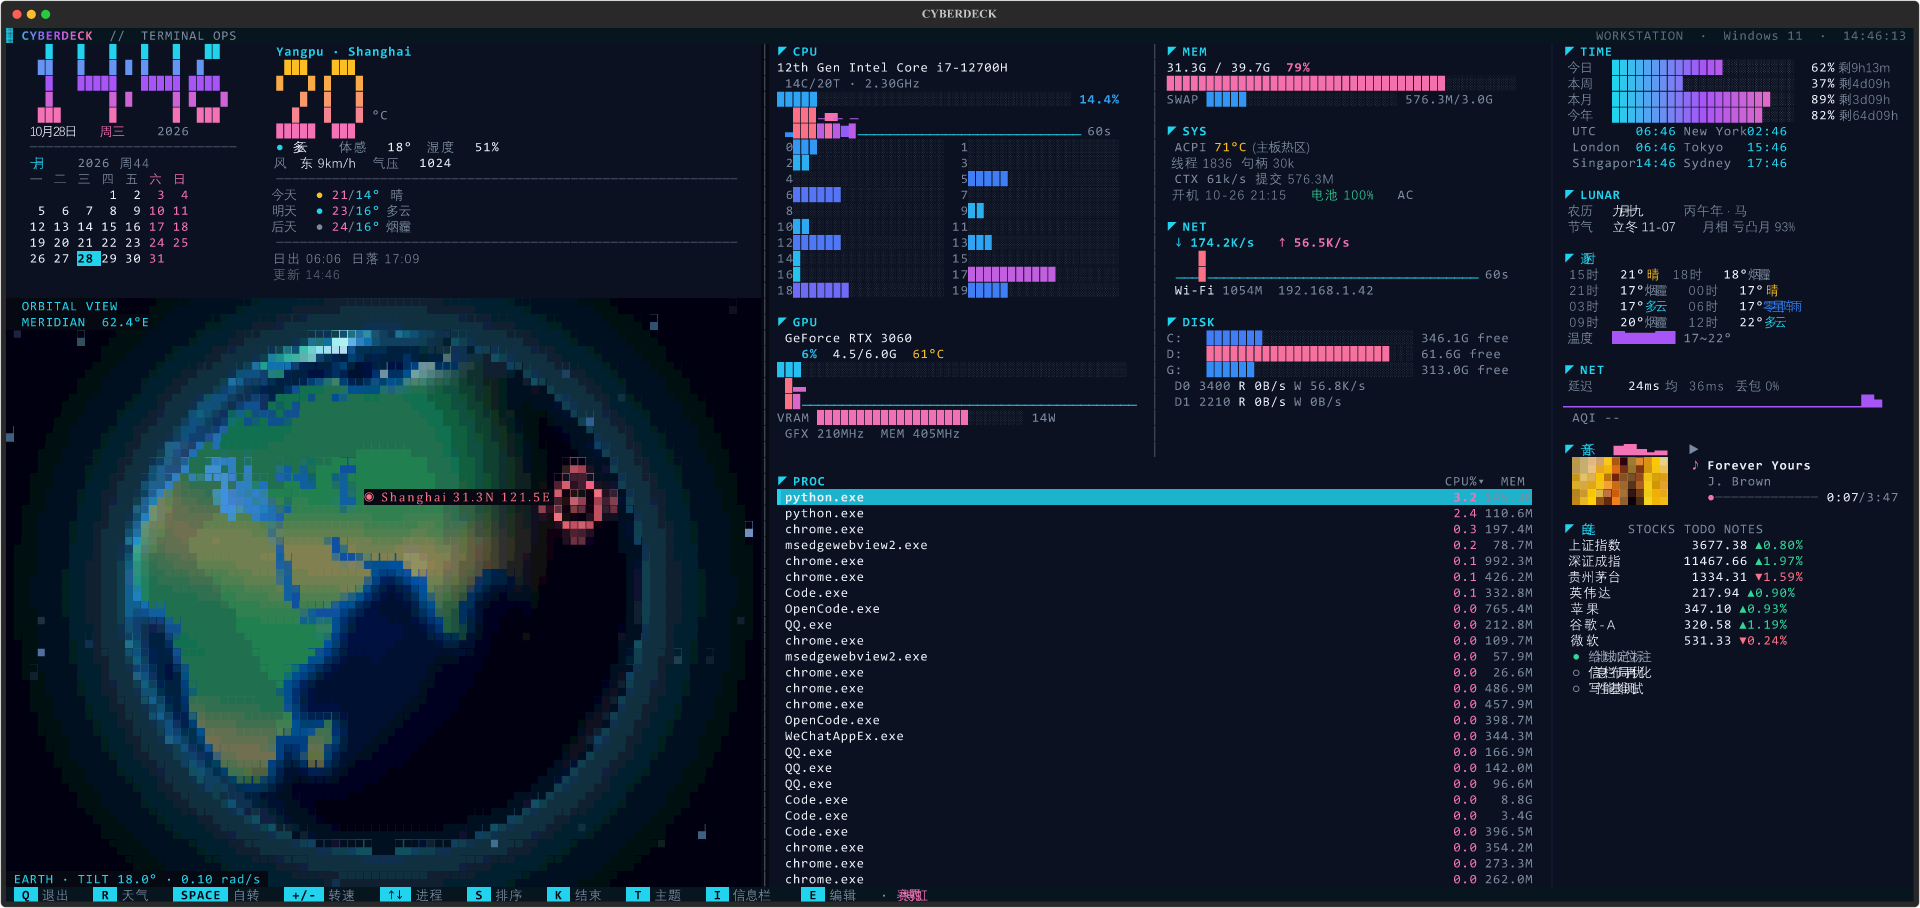
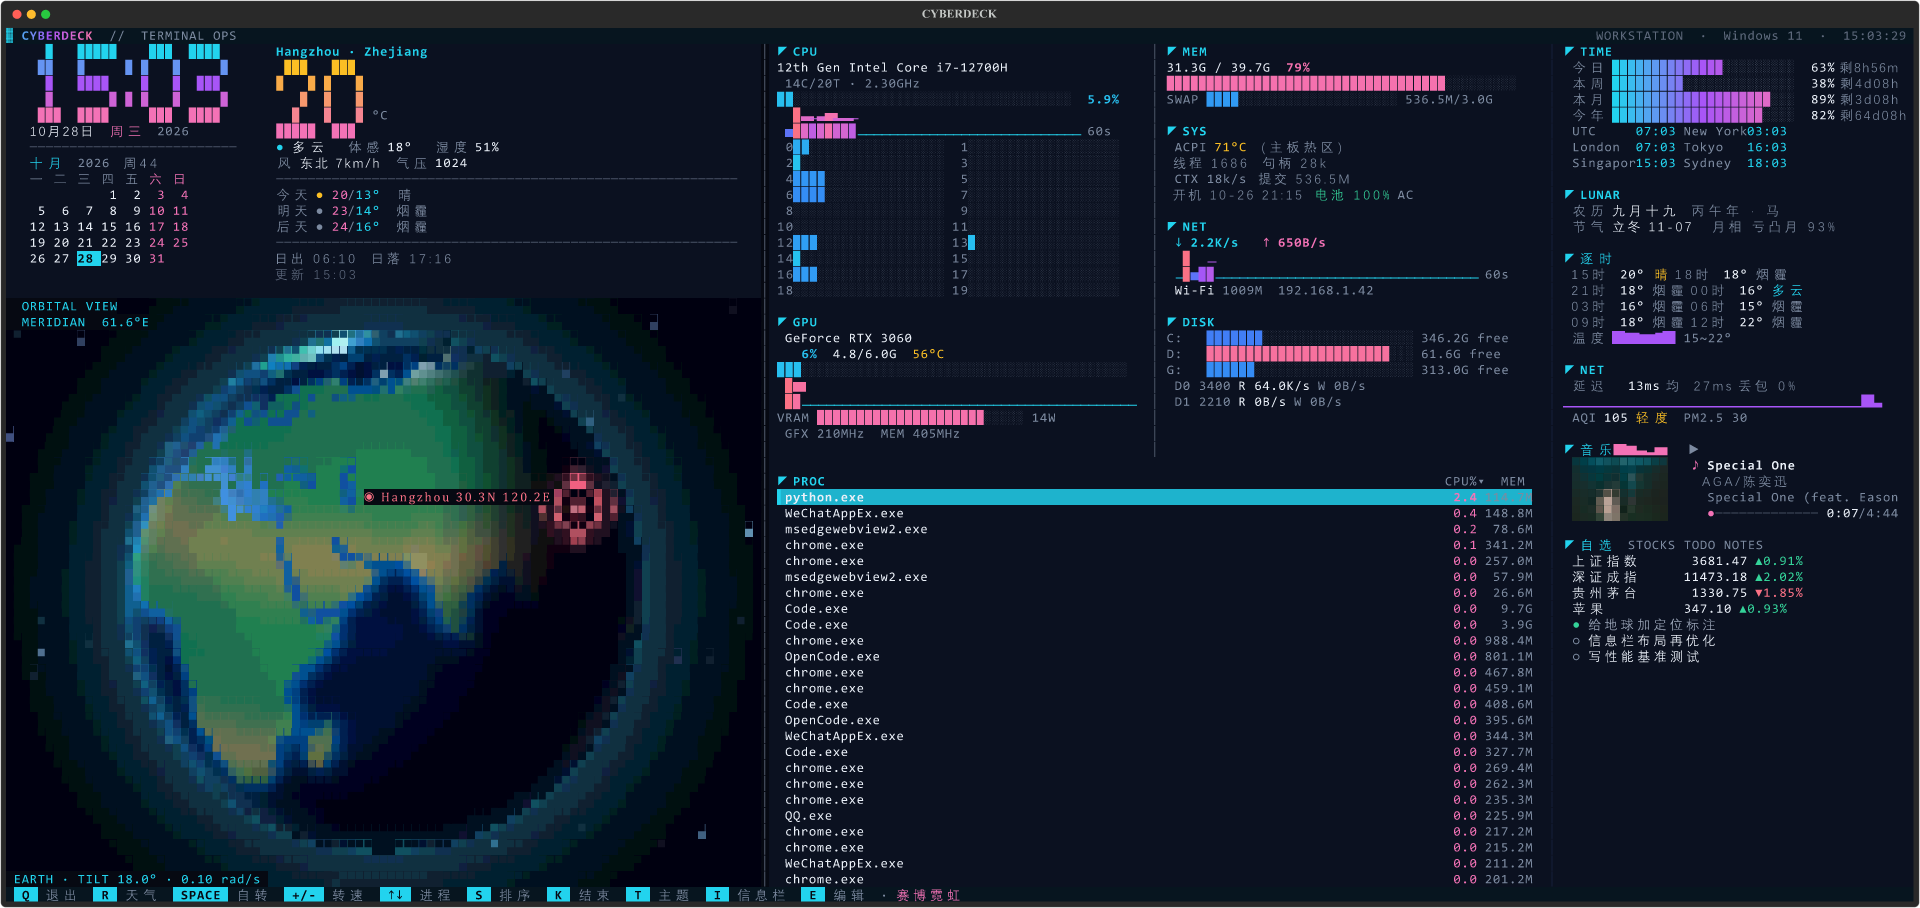
feat: manual location in the editor, and CJK-correct docs renders
Pressing e now also takes a pin: 'lat, lon, city'. Saving it writes
config.json's location, retargets the weather city and moves the globe marker
straight away; leaving it blank falls back to the timezone guess.

docs/editor.png and docs/preview.png are rendered through a new svgfix step
and a make_editor_preview tool: Textual's SVG export writes textLength as one
cell per character, so two-cell CJK glyphs were being squashed into one cell
and overlapping. Every run is now measured in real terminal cells.

diff --git a/src/cyberdeck/editor.py b/src/cyberdeck/editor.py
@@ -6,13 +6,13 @@ from textual.app import ComposeResult
 from textual.binding import Binding
 from textual.containers import Vertical
 from textual.screen import ModalScreen
-from textual.widgets import Input, Label, Static, TextArea
+from textual.widgets import Input, Static, TextArea
 
 from . import theme
 
 
 class EditorScreen(ModalScreen[dict | None]):
-    """Returns {"stocks": str, "todo": str} on save, None on cancel."""
+    """Returns {"stocks": str, "todo": str, "location": str} on save, None on cancel."""
 
     BINDINGS = [
         Binding("ctrl+s", "save", "保存"),
@@ -21,23 +21,27 @@ class EditorScreen(ModalScreen[dict | None]):
 
     DEFAULT_CSS = """
     EditorScreen { align: center middle; background: #000000 55%; }
-    #dlg { width: 72; height: 22; background: #0b1220; border: round #22d3ee; padding: 1 2; }
-    #dlg Label { color: #94a3b8; margin-top: 1; }
+    #dlg { width: 72; height: 26; background: #0b1220; border: round #22d3ee; padding: 1 2; }
+    #dlg .field { color: #94a3b8; margin-top: 1; }
     #stocks { border: round #243049; }
-    #todo { height: 9; border: round #243049; }
+    #location { border: round #243049; }
+    #todo { height: 8; border: round #243049; }
     #hint { color: #64748b; margin-top: 1; }
     """
 
-    def __init__(self, stocks: list[str], todo_text: str) -> None:
+    def __init__(self, stocks: list[str], todo_text: str, location: str = "") -> None:
         super().__init__()
         self.stocks = stocks
         self.todo_text = todo_text
+        self.location = location
 
     def compose(self) -> ComposeResult:
         with Vertical(id="dlg"):
-            yield Label("股票代码 · 逗号分隔")
+            yield Static("股票代码 · 逗号分隔", classes="field")
             yield Input(", ".join(self.stocks), id="stocks", placeholder="sh600519, sz399001, us.AAPL")
-            yield Label("待办 · 每行一条，[x] 已完成")
+            yield Static("定位 · 纬度,经度,城市名（留空＝按时区自动）", classes="field")
+            yield Input(self.location, id="location", placeholder="31.2304, 121.4737, Shanghai")
+            yield Static("待办 · 每行一条，[x] 已完成", classes="field")
             yield TextArea(self.todo_text, id="todo")
             yield Static("Ctrl+S 保存 · Esc 取消", id="hint")
 
@@ -48,14 +52,16 @@ class EditorScreen(ModalScreen[dict | None]):
         dialog.styles.border = ("round", theme.hexc(p.cyan))
         hint = self.query_one("#hint", Static)
         hint.styles.color = theme.hexc(p.dim)
-        for label in self.query(Label):
+        for label in self.query('.field'):
             label.styles.color = theme.hexc(p.dim)
         self.query_one("#stocks", Input).focus()
 
     def action_save(self) -> None:
         stocks = self.query_one("#stocks", Input).value
         todo = self.query_one("#todo", TextArea).text
-        self.dismiss({"stocks": stocks, "todo": todo})
+        location = self.query_one("#location", Input).value
+        self.dismiss({"stocks": stocks, "todo": todo, "location": location})
 
     def action_cancel(self) -> None:
         self.dismiss(None)
+

diff --git a/tools/svgfix.py b/tools/svgfix.py
@@ -1,0 +1,61 @@
+"""Fix Textual's SVG export for CJK.
+
+Textual writes ``textLength = len(run) * cell`` on every text run, so it counts
+a Chinese character as one cell. Renderers then squeeze two-cell glyphs into a
+single cell and neighbouring characters overlap. This rewrites each run's
+``textLength`` to the number of cells it really occupies; the x positions the
+layout chose are already correct, only the length attribute is wrong.
+"""
+
+from __future__ import annotations
+
+import html
+import re
+import unicodedata
+
+_TEXT = re.compile(r"<text([^>]*)>(.*?)</text>", re.S)
+_ATTR = r'{name}="([\d.]+)"'
+
+
+def cell_width(text: str) -> int:
+    """Terminal cells a string occupies (CJK counts as two)."""
+    return sum(2 if unicodedata.east_asian_width(ch) in ("W", "F") else 1 for ch in text)
+
+
+def _attr(attrs: str, name: str) -> float | None:
+    match = re.search(_ATTR.format(name=name), attrs)
+    return float(match.group(1)) if match else None
+
+
+def _set_attr(attrs: str, name: str, value: float) -> str:
+    return re.sub(_ATTR.format(name=name), f'{name}="{value:.1f}"', attrs, count=1)
+
+
+def fix_svg_text(svg: str) -> str:
+    """Return the SVG with CJK-aware textLength values."""
+    matches = list(_TEXT.finditer(svg))
+    # a single glyph run (box drawing, letters) is exactly one cell wide
+    cell = 0.0
+    for match in matches:
+        body = html.unescape(re.sub(r"<[^>]+>", "", match.group(2)))
+        if len(body) == 1 and cell_width(body) == 1:
+            cell = _attr(match.group(1), "textLength") or 0.0
+            if cell:
+                break
+    if not cell:
+        return svg
+
+    out: list[str] = []
+    pos = 0
+    for match in matches:
+        attrs, body = match.group(1), match.group(2)
+        text = html.unescape(re.sub(r"<[^>]+>", "", body))
+        length = _attr(attrs, "textLength")
+        wanted = round(cell_width(text) * cell, 1)
+        if length is not None and abs(length - wanted) > 0.1:
+            attrs = _set_attr(attrs, "textLength", wanted)
+            out.append(svg[pos:match.start()])
+            out.append(f"<text{attrs}>{body}</text>")
+            pos = match.end()
+    out.append(svg[pos:])
+    return "".join(out)

diff --git a/src/cyberdeck/app.py b/src/cyberdeck/app.py
@@ -21,7 +21,7 @@ from . import __version__, storage, theme
 from .clock import ClockPanel
 from .editor import EditorScreen
 from .extras import InfoPanel, parse_symbols
-from .geo import system_city
+from .geo import format_location, parse_location, system_city
 from .globe import Globe
 from .system import SystemPanel
 from .weather import WeatherPanel
@@ -273,7 +273,10 @@ class CyberDeck(App):
                 text = path.read_text(encoding="utf-8", errors="replace")
             except OSError:
                 text = ""
-        self.push_screen(EditorScreen(panel.stocks, text), self._apply_edit)
+        self.push_screen(
+            EditorScreen(panel.stocks, text, format_location(self.config.get("location"))),
+            self._apply_edit,
+        )
 
     def _apply_edit(self, result: dict | None) -> None:
         if not result:
@@ -282,6 +285,20 @@ class CyberDeck(App):
         stocks = parse_symbols(result.get("stocks", ""))
         panel.stocks = stocks
         self.config.setdefault("info", {})["stocks"] = stocks
+
+        # manual pin: "lat, lon, city"; blank falls back to the timezone guess
+        located = parse_location((result.get("location") or "").strip())
+        if located:
+            lat, lon, name = located
+            self.config["location"] = {"lat": round(lat, 4), "lon": round(lon, 4), "name": name}
+            if name and name != self.city:
+                self.city = name
+                self._city_pinned = True
+                weather_panel = self.query_one(WeatherPanel)
+                weather_panel.city = name
+                weather_panel.refresh_weather()
+        else:
+            self.config.pop("location", None)
         self._save_config()
 
         path = panel._todo_file()
@@ -294,6 +311,7 @@ class CyberDeck(App):
         panel._load_todo()
         panel._poll_stocks()
         panel.refresh()
+        self.query_one(Globe)._refresh_location()
         self.notify(f"已保存 · 股票 {len(stocks)} 支", timeout=2)
 
     def action_theme(self, index: int) -> None:

diff --git a/tools/make_editor_preview.py b/tools/make_editor_preview.py
@@ -1,0 +1,37 @@
+"""Render docs/editor.png: the in-terminal editor modal."""
+
+import asyncio
+import sys
+from pathlib import Path
+
+ROOT = Path(__file__).resolve().parents[1]
+sys.path.insert(0, str(ROOT / "src"))
+sys.path.insert(0, str(ROOT / "tools"))
+
+import resvg_py  # noqa: E402
+from svgfix import fix_svg_text  # noqa: E402
+
+from cyberdeck.app import CyberDeck  # noqa: E402
+
+SIZE = (120, 34)
+FONT = "Consolas" if sys.platform == "win32" else "Menlo" if sys.platform == "darwin" else "DejaVu Sans Mono"
+CJK = ("Microsoft YaHei" if sys.platform == "win32"
+       else "PingFang SC" if sys.platform == "darwin" else "Noto Sans CJK SC")
+
+
+async def capture() -> str:
+    app = CyberDeck()
+    async with app.run_test(size=SIZE) as pilot:
+        await pilot.pause(4.0)
+        await pilot.press("e")
+        await pilot.pause(0.8)
+        return app.export_screenshot()
+
+
+svg = asyncio.run(capture())
+svg = svg.replace('font-family: "Fira Code";', f'font-family: "{FONT}";')
+svg = svg.replace("font-family: Fira Code, monospace;", f"font-family: {FONT}, monospace;")
+svg = fix_svg_text(svg)  # Textual counts CJK as one cell; give them two
+png = bytes(resvg_py.svg_to_bytes(svg, width=1600, monospace_family=FONT, sans_serif_family=CJK))
+(ROOT / "docs" / "editor.png").write_bytes(png)
+print("wrote docs/editor.png", len(png), "bytes")

diff --git a/src/cyberdeck/geo.py b/src/cyberdeck/geo.py
@@ -87,3 +87,31 @@ def system_city() -> str | None:
     if sys.platform == "win32":
         return city_for_windows_tz(_windows_tz())
     return city_for_iana(_iana_key())
+
+
+def parse_location(text: str) -> tuple[float, float, str] | None:
+    """'31.23, 121.47, Shanghai' -> (31.23, 121.47, 'Shanghai'), None if invalid."""
+    parts = [part.strip() for part in text.replace("，", ",").split(",")]
+    if len(parts) < 2 or not parts[0] or not parts[1]:
+        return None
+    try:
+        lat, lon = float(parts[0]), float(parts[1])
+    except ValueError:
+        return None
+    if not -90.0 <= lat <= 90.0:
+        return None
+    lon = ((lon + 180.0) % 360.0) - 180.0
+    return round(lat, 6), round(lon, 6), ",".join(parts[2:]).strip()
+
+
+def format_location(cfg: object) -> str:
+    """Config location dict -> the string shown in the editor."""
+    if not isinstance(cfg, dict):
+        return ""
+    try:
+        lat, lon = float(cfg["lat"]), float(cfg["lon"])
+    except (KeyError, TypeError, ValueError):
+        return ""
+    name = str(cfg.get("name") or "").strip()
+    text = f"{lat:.4f}, {lon:.4f}"
+    return f"{text}, {name}" if name else text

diff --git a/tools/smoke.py b/tools/smoke.py
@@ -108,16 +108,18 @@ async def main() -> None:
         screen = edit.screen
         print("editor:", type(screen).__name__)
         screen.query_one("#stocks", Input).value = "sh000001, sz399001, sh600519, us.AAPL"
+        screen.query_one("#location", Input).value = "30.2741, 120.1551, Hangzhou"
         screen.query_one("#todo", TextArea).text = (
             "- [x] 给地球加定位标注\n"
             "- [ ] 信息栏布局再优化\n"
             "- [ ] 写性能基准测试\n"
         )
         await pilot.press("ctrl+s")
-        await pilot.pause(0.8)
+        await pilot.pause(1.2)
         panel = edit.query_one(InfoPanel)
         print("saved stocks:", panel.stocks, "todo:", panel.state.todo)
         print("todo file:", panel._todo_file(), panel._todo_file().exists())
+        print("location cfg:", edit.config.get("location"), "marker:", edit.query_one("Globe").marker)
 
     # marker screenshot: face the location, pause, capture
     shot = CyberDeck()

diff --git a/tests/test_core.py b/tests/test_core.py
@@ -294,6 +294,21 @@ def test_stale_quotes_are_labelled():
     assert "m前" not in panel.build(43, 30).plain
 
 
+def test_location_round_trip():
+    from cyberdeck.geo import format_location, parse_location
+
+    assert parse_location("31.2304, 121.4737, Shanghai") == (31.2304, 121.4737, "Shanghai")
+    assert parse_location("30.2741，120.1551") == (30.2741, 120.1551, "")
+    assert parse_location("  31.2 , 121.5 ") == (31.2, 121.5, "")
+    assert parse_location("31.2") is None
+    assert parse_location("north, east") is None
+    assert parse_location("95, 120") is None  # latitude out of range
+    cfg = {"lat": 30.2741, "lon": 120.1551, "name": "Hangzhou"}
+    assert format_location(cfg) == "30.2741, 120.1551, Hangzhou"
+    assert format_location(None) == ""
+    assert parse_location(format_location(cfg)) == (30.2741, 120.1551, "Hangzhou")
+
+
 def test_system_city_mapping():
     from cyberdeck.geo import city_for_iana, city_for_windows_tz
 

diff --git a/tools/make_preview.py b/tools/make_preview.py
@@ -7,6 +7,9 @@ from pathlib import Path
 
 ROOT = Path(__file__).resolve().parents[1]
 sys.path.insert(0, str(ROOT / "src"))
+sys.path.insert(0, str(ROOT / "tools"))
+
+from svgfix import fix_svg_text  # noqa: E402
 
 # redact before the app renders anything
 socket.gethostname = lambda: "workstation"  # noqa: E731
@@ -49,6 +52,7 @@ CJK = "Microsoft YaHei" if sys.platform == "win32" else "PingFang SC" if sys.pla
 svg = (OUT / "preview.svg").read_text(encoding="utf-8")
 svg = svg.replace('font-family: "Fira Code";', f'font-family: "{FONT}";')
 svg = svg.replace("font-family: Fira Code, monospace;", f"font-family: {FONT}, monospace;")
+svg = fix_svg_text(svg)  # Textual counts CJK as one cell; give them two
 png = bytes(resvg_py.svg_to_bytes(
     svg, width=1920, monospace_family=FONT, sans_serif_family=CJK,
 ))

diff --git a/README.md b/README.md
@@ -95,18 +95,19 @@ NVIDIA 显卡走 `nvidia-smi`；配置走 `$XDG_CONFIG_HOME/cyberdeck` 或 `~/.c
 | `i` | 显示 / 隐藏最右信息栏 |
 | `e` | 编辑股票代码 / 待办清单 |
 
-主题、城市、信息栏开关都会写进 `config.json`，下次启动自动恢复。
+主题、城市、定位、信息栏开关都会写进 `config.json`，下次启动自动恢复。
 
 ## 终端内编辑（`e`）
 
 ![editor](docs/editor.png)
 
-一个弹窗同时改两样东西：
+一个弹窗同时改三样东西：
 
 - **股票代码**：逗号分隔，`sh` / `sz` / `hk` / `us` 前缀都可以（`sh600519, sz399001, us.AAPL`）
+- **定位**：`纬度, 经度, 城市名`（`30.2741, 120.1551, Hangzhou`），留空回到自动（系统时区）
 - **待办**：一行一条，`[x]` 表示已完成，`#` 开头是注释
 
-`Ctrl+S` 保存（写回 `config.json` 和 `todo.txt` 并立即刷新），`Esc` 取消。文件本身也可以直接用编辑器改，面板会按修改时间自动重读。
+`Ctrl+S` 保存（写回 `config.json` 和 `todo.txt`，地球红点和天气城市立刻切换），`Esc` 取消。文件本身也可以直接用编辑器改，面板会按修改时间自动重读。
 
 ## 地球定位标注
 
@@ -116,7 +117,7 @@ NVIDIA 显卡走 `nvidia-smi`；配置走 `$XDG_CONFIG_HOME/cyberdeck` 或 `~/.c
 
 坐标来源按优先级：
 
-1. `config.json` 里的 `location` —— 精确坐标，常驻看板建议直接写死
+1. **手动定位**：按 `e` 在「定位」一行填 `纬度, 经度, 城市名`，或者直接写 `config.json` 的 `location` —— 精确，30 秒内生效
 2. **系统时区**推断的城市（`China Standard Time` → Shanghai）→ wttr.in 该城市的气象站坐标
 
 **为什么不用 IP 定位**：开着 VPN 时出口 IP 在东京，IP 地理库就把城市判成东京，天气和地球红点会一起错。系统时区跟着机器走，不受代理影响，所以默认从时区推城市。
